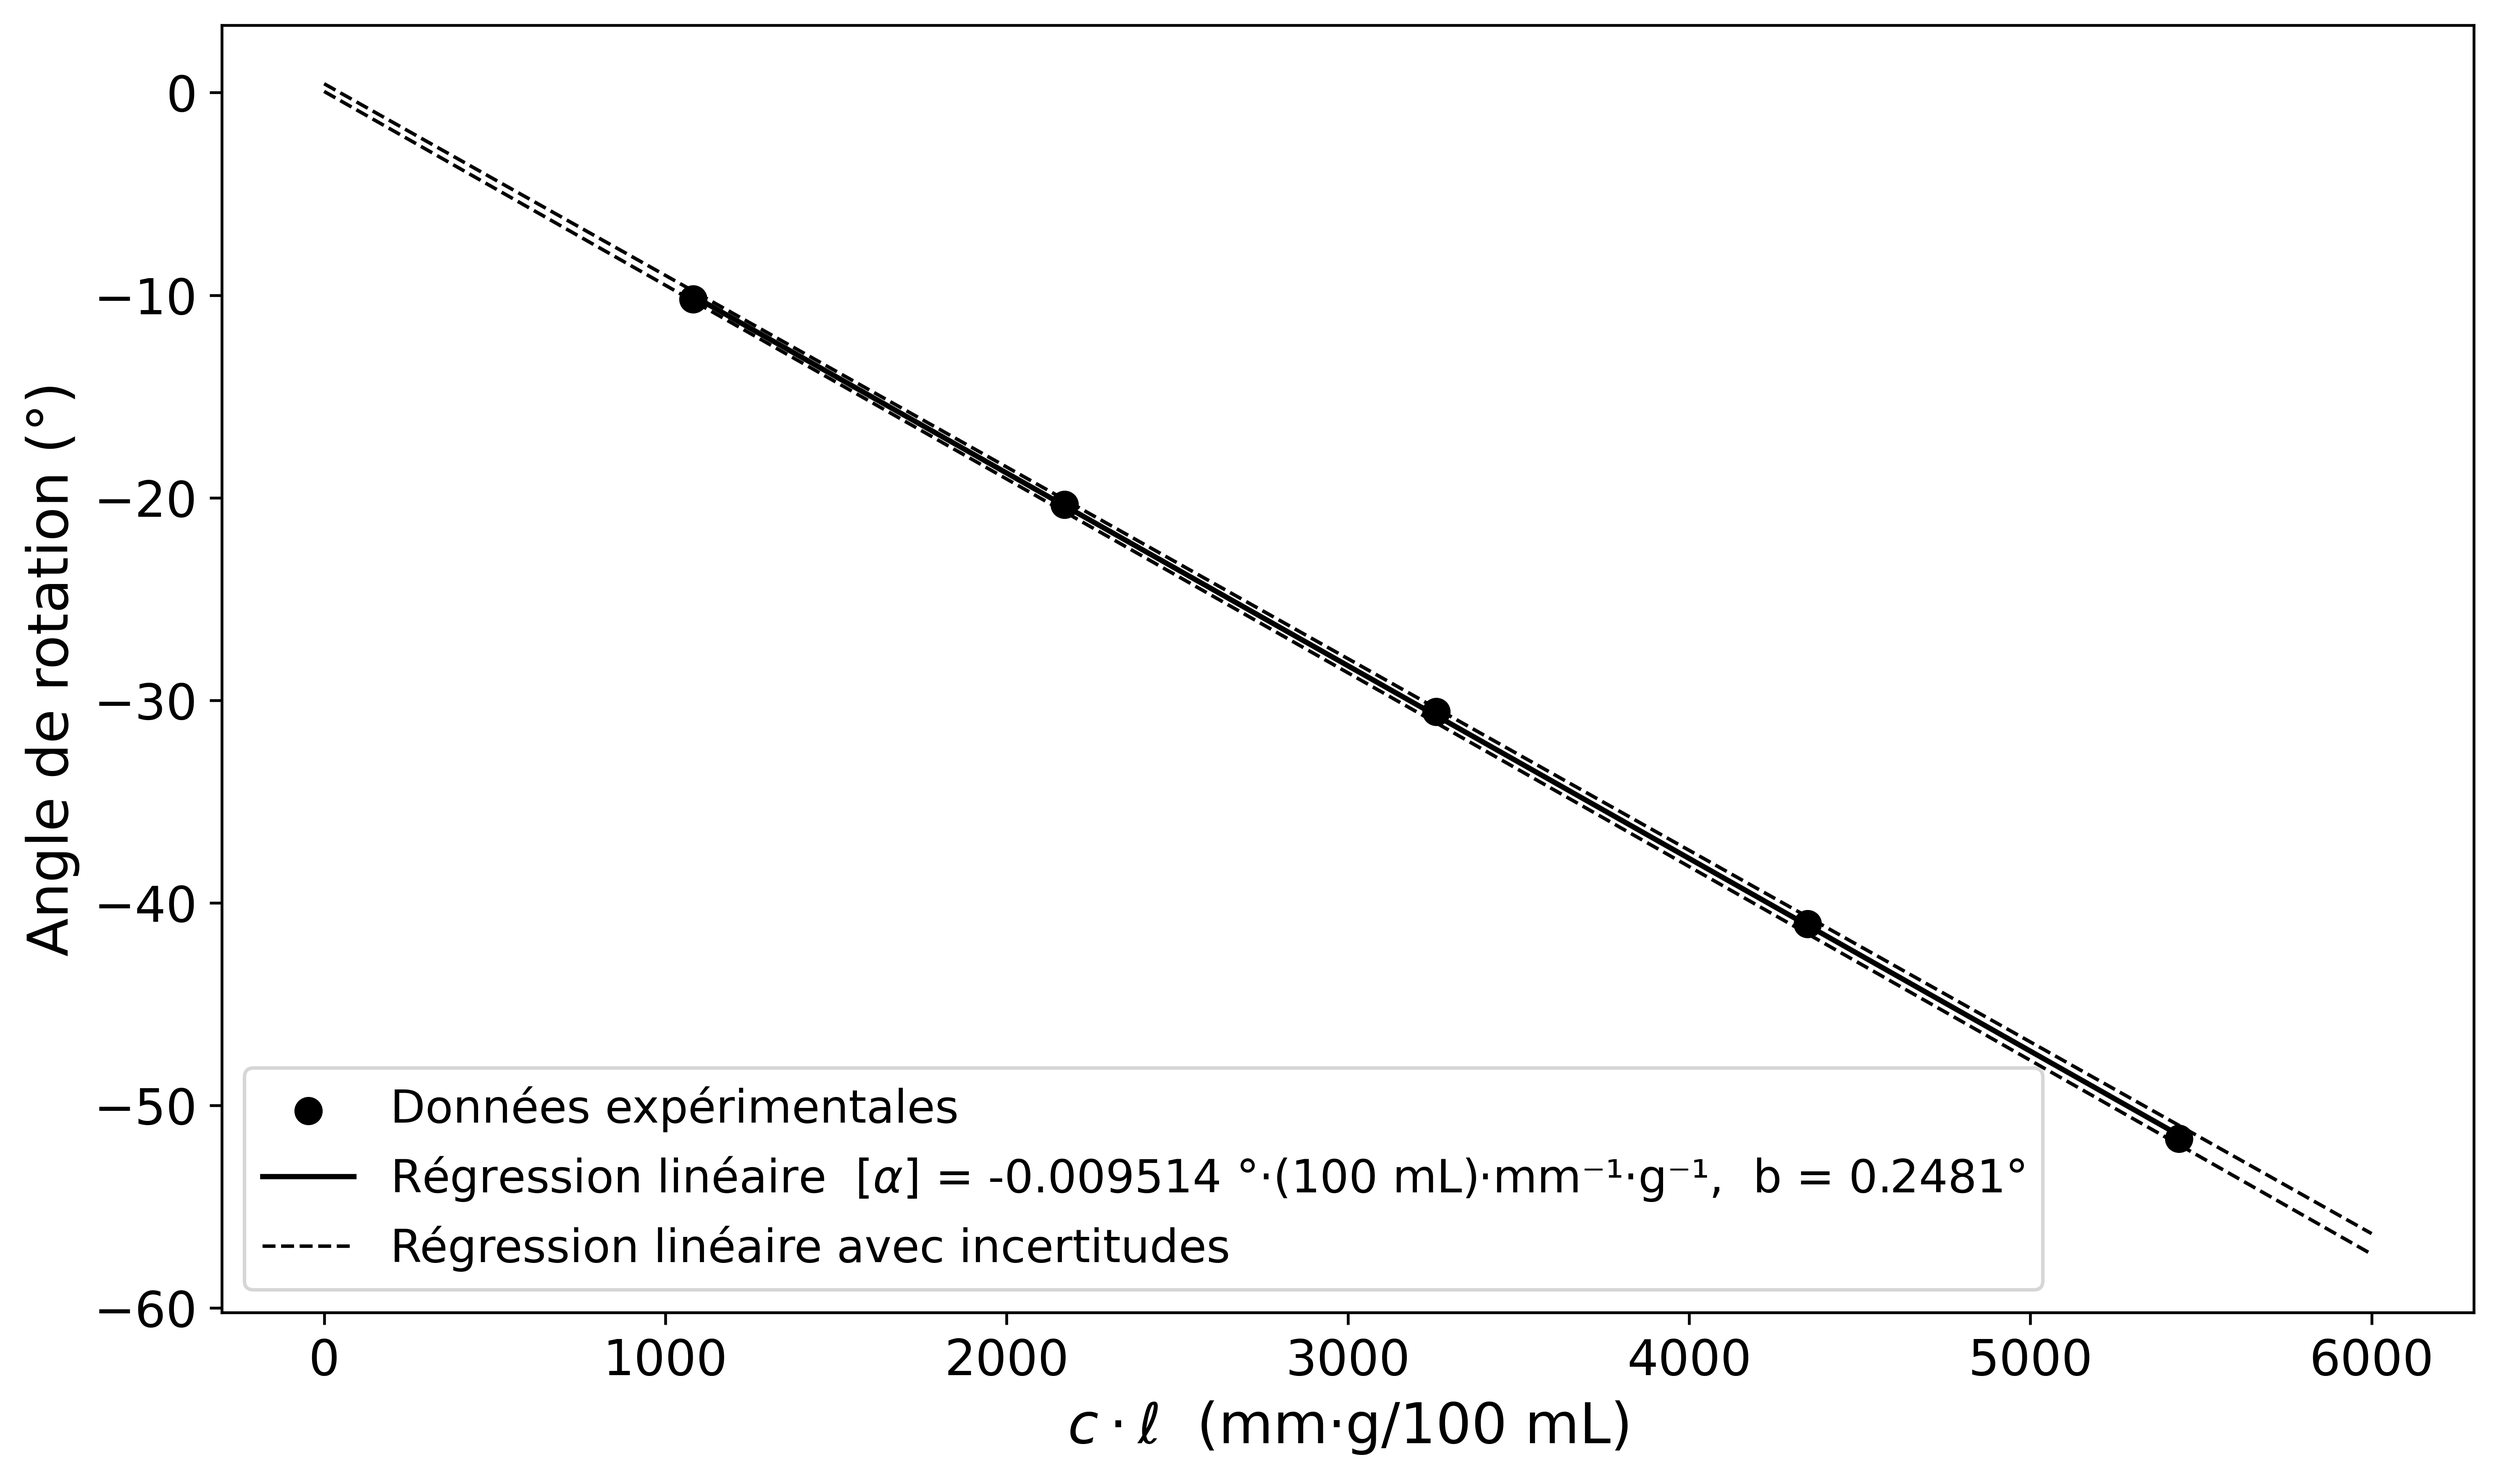
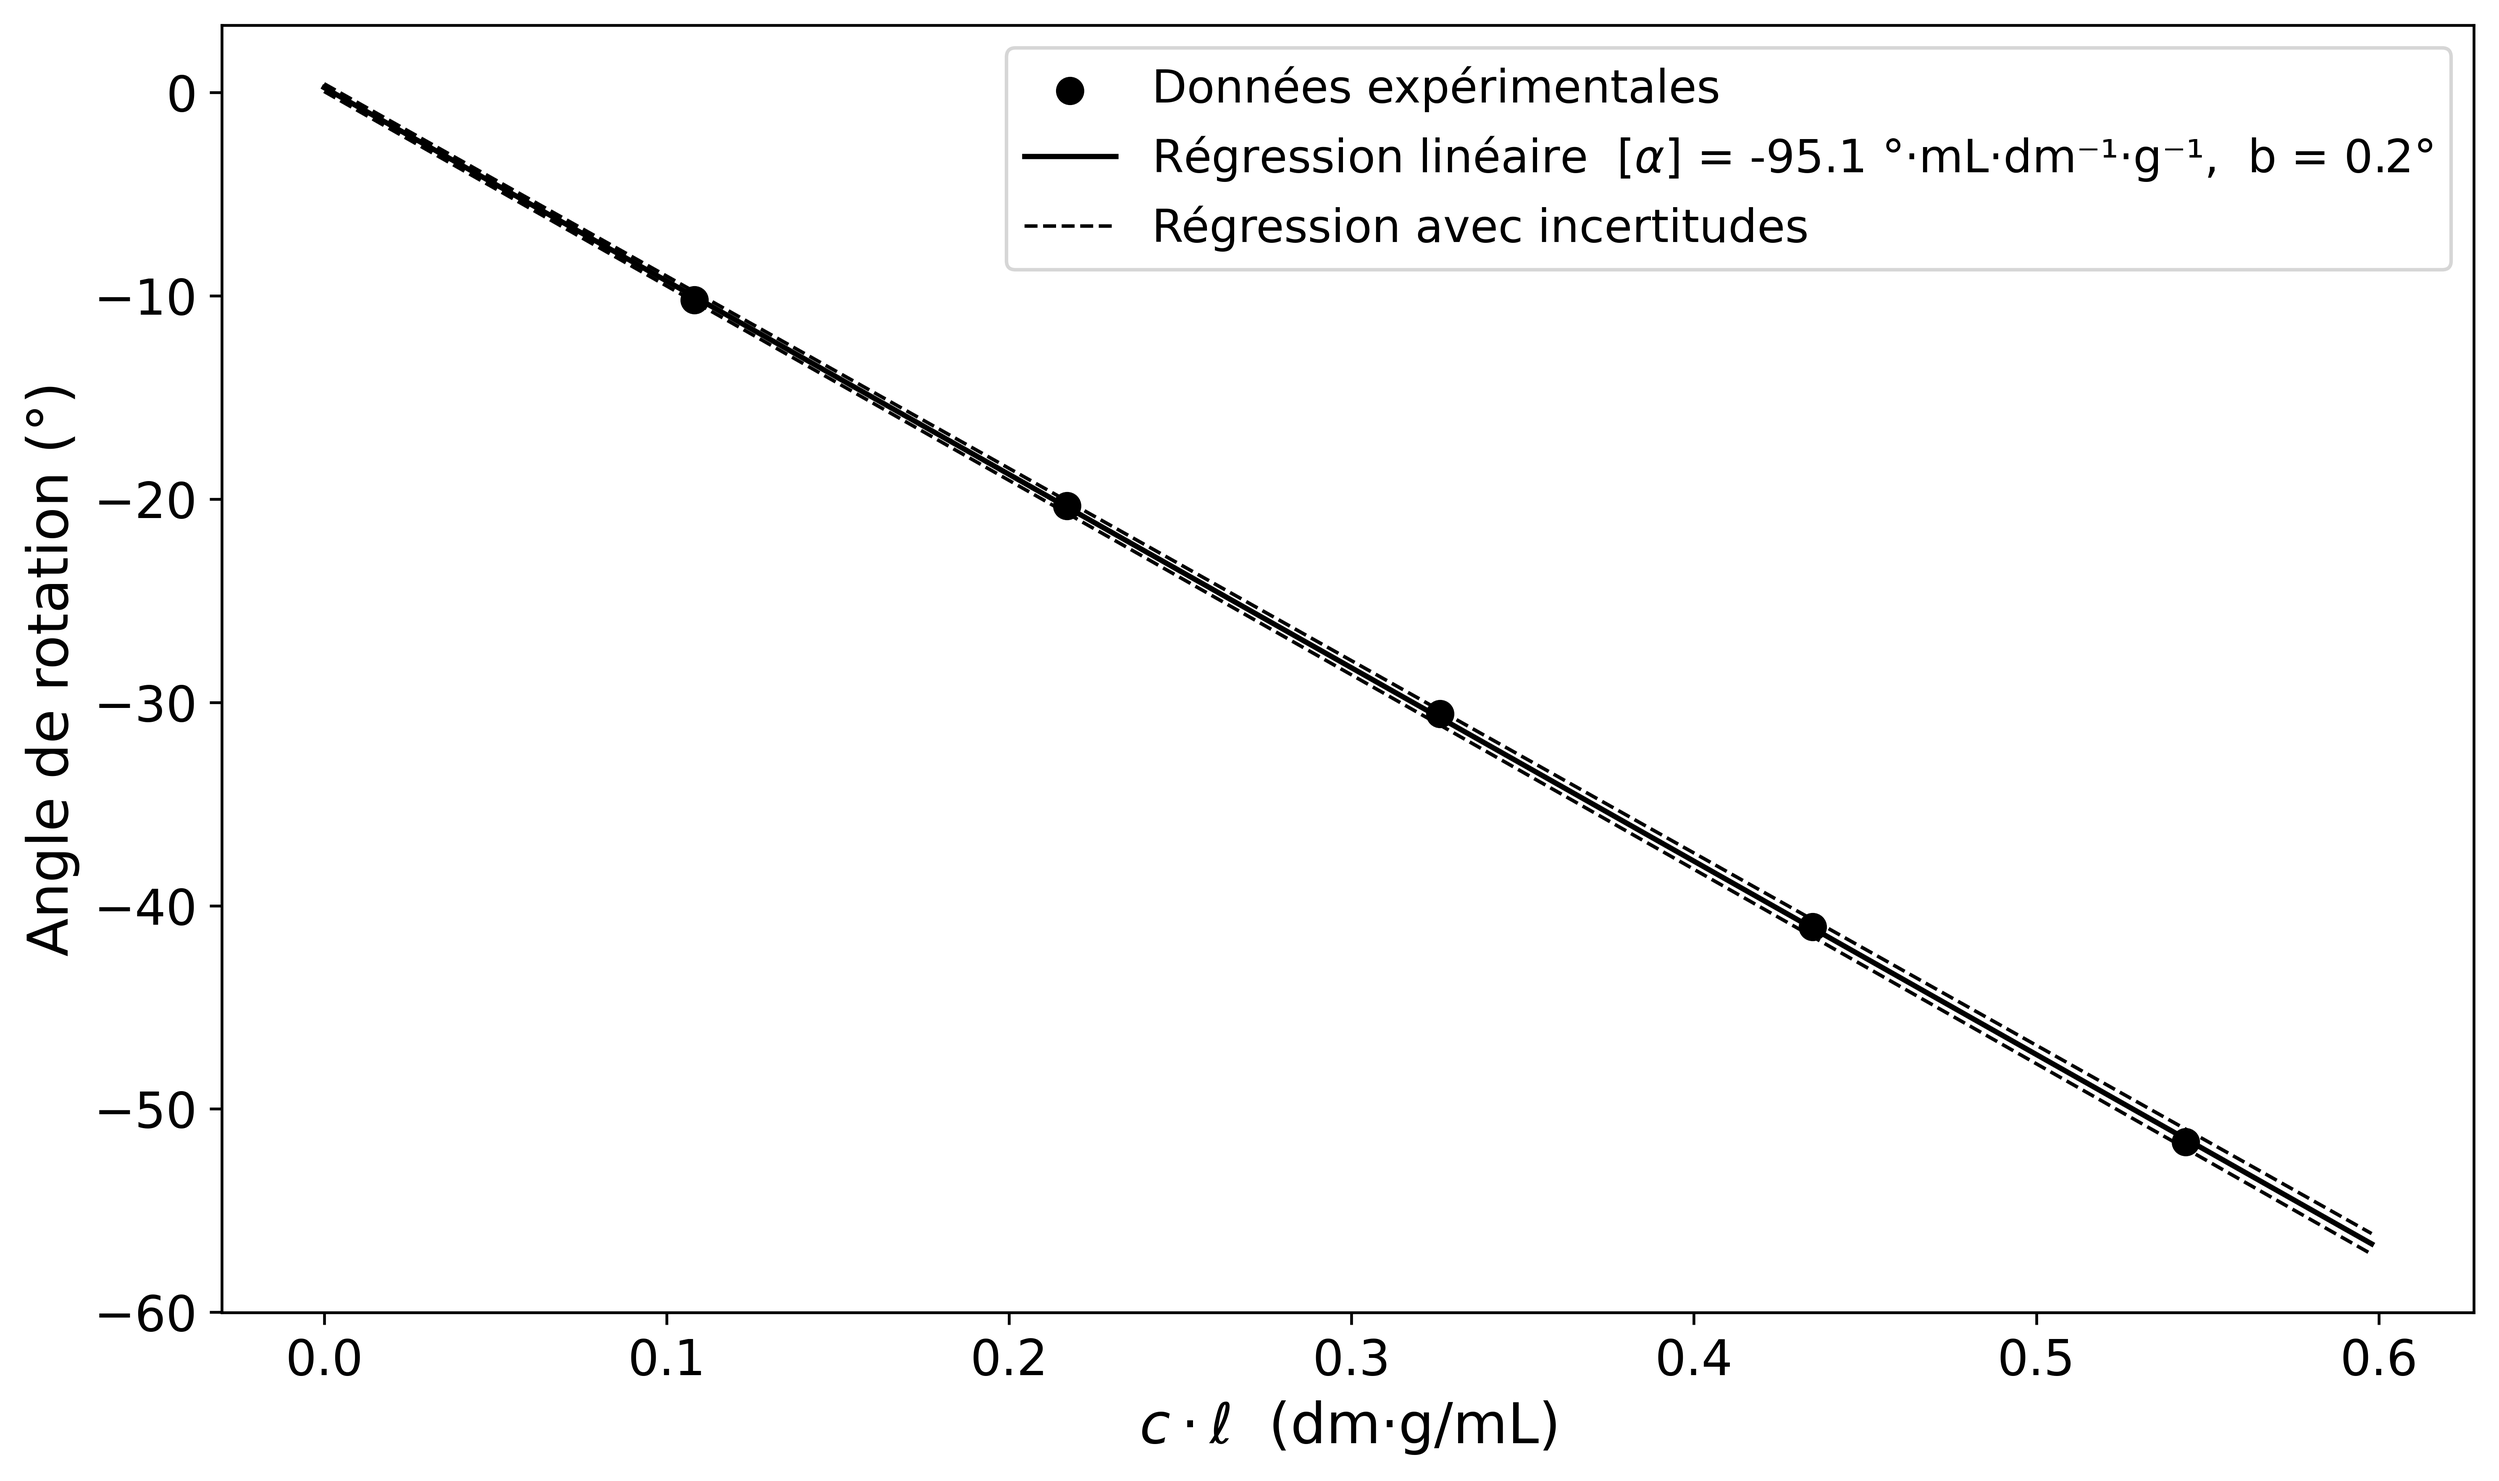
unites regressions

diff --git a/Projet_2/glucose_moyenne_linéaire.py b/Projet_2/glucose_moyenne_linéaire.py
@@ -5,11 +5,11 @@ import scipy.optimize as opt
 
 base_dir = os.path.dirname(os.path.abspath(__file__))
 
-longueur      = np.array([35.435, 55.783, 76.131, 96.479, 127.001])  # mm
-angle         = np.array([8.74, 15.22, 20.44, 24.66, 32.12])     # °
-concentration = 45.45  # g/100 mL
+longueur      = np.array([35.435, 55.783, 76.131, 96.479, 127.001]) / 100  # mm → dm
+angle         = np.array([8.74, 15.22, 20.44, 24.66, 32.12])               # °
+concentration = 45.45 / 100  # g/100 mL → g/mL
 
-# Variable composite c·ℓ (en mm·g/100mL)
+# Variable composite c·ℓ (en dm·g/mL)
 cl = concentration * longueur
 
 def regression_lineaire(x, alpha_sp, b):
@@ -21,33 +21,20 @@ b              = popt[1]
 sigma_alpha_sp = np.sqrt(pcov[0, 0])
 sigma_b        = np.sqrt(pcov[1, 1])
 
-print(f"Pouvoir rotatoire spécifique [α] = {alpha_sp:.6f} ± {sigma_alpha_sp:.6f} °·(100 mL)·mm⁻¹·g⁻¹")
-print(f"Ordonnée à l'origine          b  = {b:.6f} ± {sigma_b:.6f} °")
+print(f"Pouvoir rotatoire spécifique [α] = {alpha_sp:.0f} ± {sigma_alpha_sp:.1f} °·mL·dm⁻¹·g⁻¹")
+print(f"Ordonnée à l'origine          b  = {b:.1f} ± {sigma_b:.1f} °")
 
-def reg_min(x):
-    y = (alpha_sp - sigma_alpha_sp) * x + (b - sigma_b)
-    return y
-x_reg_min = np.linspace(0, 6000, 6000)
-y_reg_min = reg_min(x_reg_min)
-
-
-def reg_max(x):
-    y = (alpha_sp + sigma_alpha_sp) * x + (b + sigma_b)
-    return y
-x_reg_max = np.linspace(0, 6000, 6000)
-y_reg_max = reg_max(x_reg_max)
-
-
-cl_fit    = np.linspace(min(cl), max(cl), 100)
-angle_fit = alpha_sp * cl_fit + b
+x_fit = np.linspace(0, max(cl) * 1.1, 500)
 
 plt.figure(figsize=(10, 6))
 plt.scatter(cl, angle, color='black', s=50, label='Données expérimentales')
-plt.plot(cl_fit, angle_fit, color='black', linestyle='-', linewidth=1.5,
-         label=f'Régression linéaire  $[\\alpha]$ = {alpha_sp:.6f} °·(100 mL)·mm⁻¹·g⁻¹,  b = {b:.4f}°')
-plt.plot(x_reg_min, y_reg_min, color="black", linestyle='--', linewidth=1, label=f'Régression linéaire avec incertitudes')
-plt.plot(x_reg_max, y_reg_max, color="black", linestyle='--', linewidth=1)
-plt.xlabel(r"$c \cdot \ell$  (mm·g/100 mL)", fontsize=16)
+plt.plot(x_fit, alpha_sp * x_fit + b, color='black', linestyle='-', linewidth=1.5,
+         label=f'Régression linéaire  $[\\alpha]$ = {alpha_sp:.0f} °·mL·dm⁻¹·g⁻¹,  b = {b:.1f}°')
+plt.plot(x_fit, (alpha_sp - sigma_alpha_sp) * x_fit + (b - sigma_b),
+         color="black", linestyle='--', linewidth=1, label='Régression avec incertitudes')
+plt.plot(x_fit, (alpha_sp + sigma_alpha_sp) * x_fit + (b + sigma_b),
+         color="black", linestyle='--', linewidth=1)
+plt.xlabel(r"$c \cdot \ell$  (dm·g/mL)", fontsize=16)
 plt.ylabel("Angle de rotation (°)", fontsize=16)
 plt.tick_params(axis='both', labelsize=14)
 plt.legend(fontsize=13)

diff --git a/Projet_2/fructose_moyenne_linéaire.py b/Projet_2/fructose_moyenne_linéaire.py
@@ -5,11 +5,11 @@ import scipy.optimize as opt
 
 base_dir = os.path.dirname(os.path.abspath(__file__))
 
-longueur = np.array([25.261, 50.696, 76.131, 101.566, 127.001])     # mm
-angle = np.array([-10.20, -20.33, -30.56, -41.04, -51.63])  # °
-concentration = 42.8  # g/100 mL
+longueur      = np.array([25.261, 50.696, 76.131, 101.566, 127.001]) / 100  # mm → dm
+angle         = np.array([-10.20, -20.33, -30.56, -41.04, -51.63])          # °
+concentration = 42.8 / 100  # g/100 mL → g/mL
 
-# Variable composite c·ℓ (en mm·g/100mL)
+# Variable composite c·ℓ (en dm·g/mL)
 cl = concentration * longueur
 
 def regression_lineaire(x, alpha_sp, b):
@@ -21,34 +21,20 @@ b              = popt[1]
 sigma_alpha_sp = np.sqrt(pcov[0, 0])
 sigma_b        = np.sqrt(pcov[1, 1])
 
-print(f"Pouvoir rotatoire spécifique [α] = {alpha_sp:.6f} ± {sigma_alpha_sp:.6f} °·(100 mL)·mm⁻¹·g⁻¹")
-print(f"Ordonnée à l'origine          b  = {b:.6f} ± {sigma_b:.6f} °")
+print(f"Pouvoir rotatoire spécifique [α] = {alpha_sp:.1f} ± {sigma_alpha_sp:.1f} °·mL·dm⁻¹·g⁻¹")
+print(f"Ordonnée à l'origine          b  = {b:.1f} ± {sigma_b:.1f} °")
 
-cl_fit    = np.linspace(min(cl), max(cl), 100)
-angle_fit = alpha_sp * cl_fit + b
-
-
-def reg_min(x):
-    y = (alpha_sp - sigma_alpha_sp) * x + (b - sigma_b)
-    return y
-x_reg_min = np.linspace(0, 6000, 6000)
-y_reg_min = reg_min(x_reg_min)
-
-
-def reg_max(x):
-    y = (alpha_sp + sigma_alpha_sp) * x + (b + sigma_b)
-    return y
-x_reg_max = np.linspace(0, 6000, 6000)
-y_reg_max = reg_max(x_reg_max)
-
+x_fit = np.linspace(0, max(cl) * 1.1, 500)
 
 plt.figure(figsize=(10, 6))
 plt.scatter(cl, angle, color='black', s=50, label='Données expérimentales')
-plt.plot(cl_fit, angle_fit, color='black', linestyle='-', linewidth=1.5,
-         label=f'Régression linéaire  $[\\alpha]$ = {alpha_sp:.6f} °·(100 mL)·mm⁻¹·g⁻¹,  b = {b:.4f}°')
-plt.plot(x_reg_min, y_reg_min, color="black", linestyle='--', linewidth=1, label=f'Régression linéaire avec incertitudes')
-plt.plot(x_reg_max, y_reg_max, color="black", linestyle='--', linewidth=1)
-plt.xlabel(f"$c \cdot \ell$  (mm·g/100 mL)", fontsize=16)
+plt.plot(x_fit, alpha_sp * x_fit + b, color='black', linestyle='-', linewidth=1.5,
+         label=f'Régression linéaire  $[\\alpha]$ = {alpha_sp:.1f} °·mL·dm⁻¹·g⁻¹,  b = {b:.1f}°')
+plt.plot(x_fit, (alpha_sp - sigma_alpha_sp) * x_fit + (b - sigma_b),
+         color="black", linestyle='--', linewidth=1, label='Régression avec incertitudes')
+plt.plot(x_fit, (alpha_sp + sigma_alpha_sp) * x_fit + (b + sigma_b),
+         color="black", linestyle='--', linewidth=1)
+plt.xlabel(r"$c \cdot \ell$  (dm·g/mL)", fontsize=16)
 plt.ylabel("Angle de rotation (°)", fontsize=16)
 plt.tick_params(axis='both', labelsize=14)
 plt.legend(fontsize=13)
